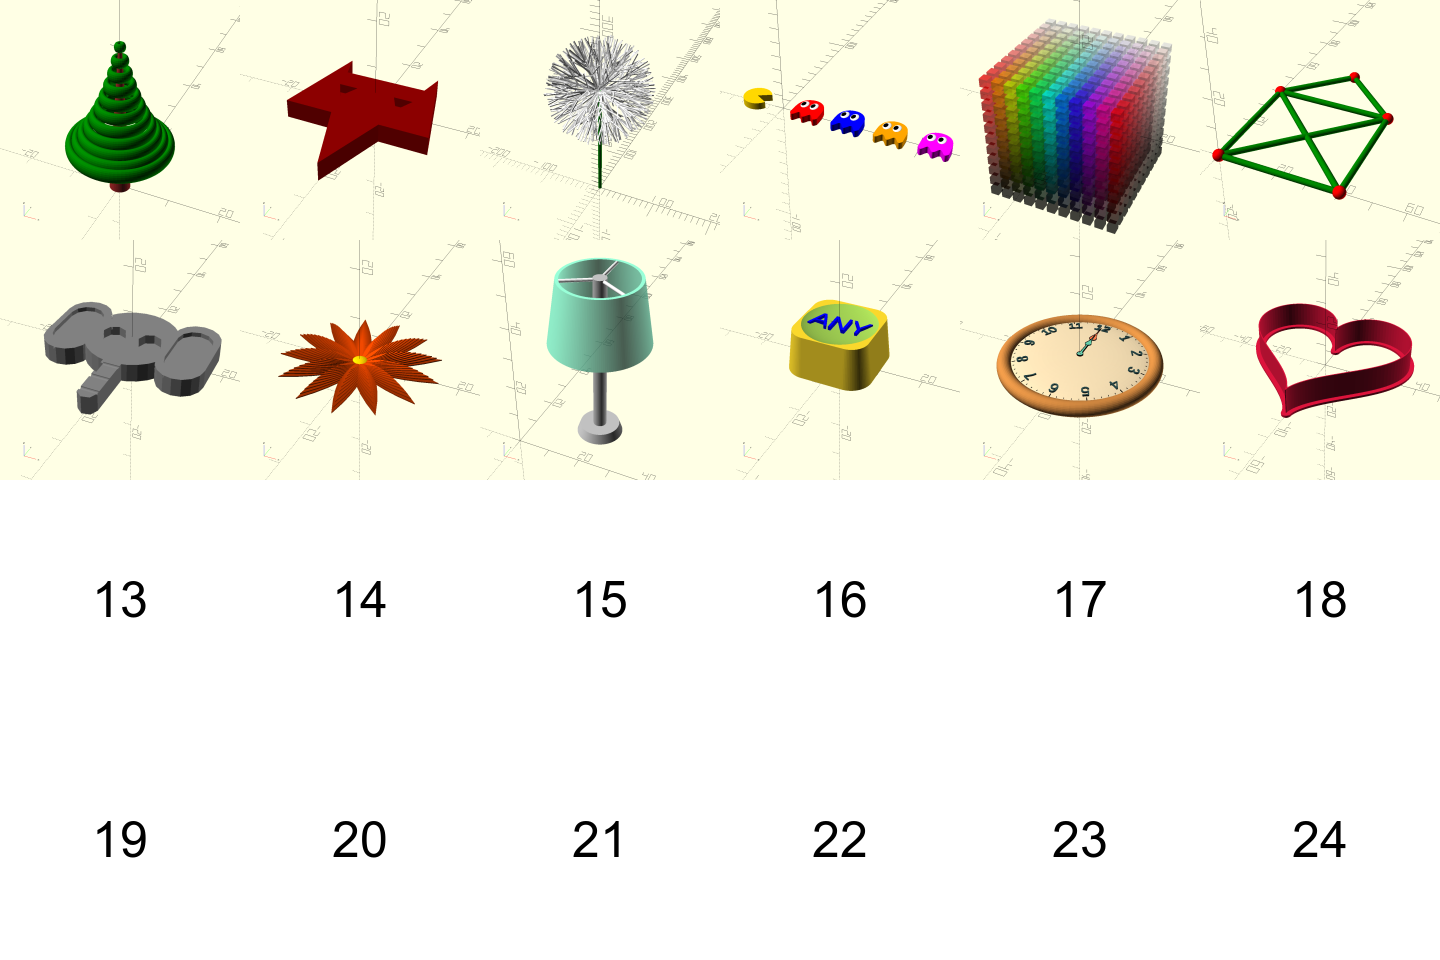
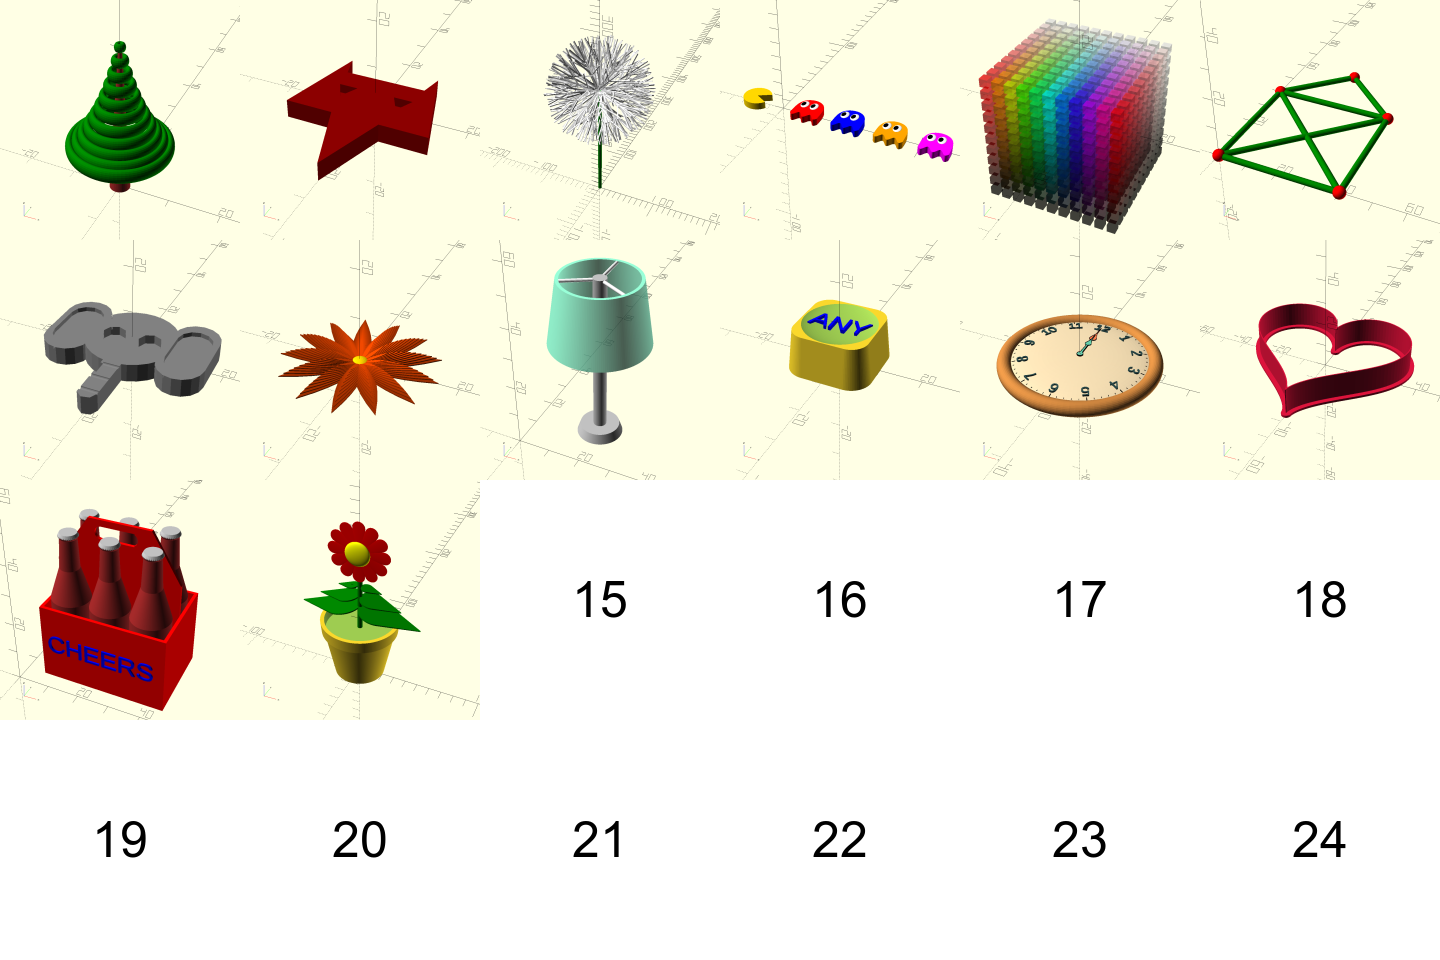
Add sixpack and flower-in-pot designs.

Changed region(s): [[0.0, 0.5, 0.3438, 0.75]]

diff --git a/README.md b/README.md
@@ -14,8 +14,8 @@
 - [x] `Th 10. any-key`
 - [x] `Fr 11. clock`
 - [x] `Sa 12. cookie-cutter`
-- [ ] `So 13. `
-- [ ] `Mo 14. `
+- [x] `So 13. sixpack`
+- [x] `Mo 14. flower-in-pot`
 - [ ] `Tu 15. `
 - [ ] `We 16. `
 - [ ] `Th 17. `
